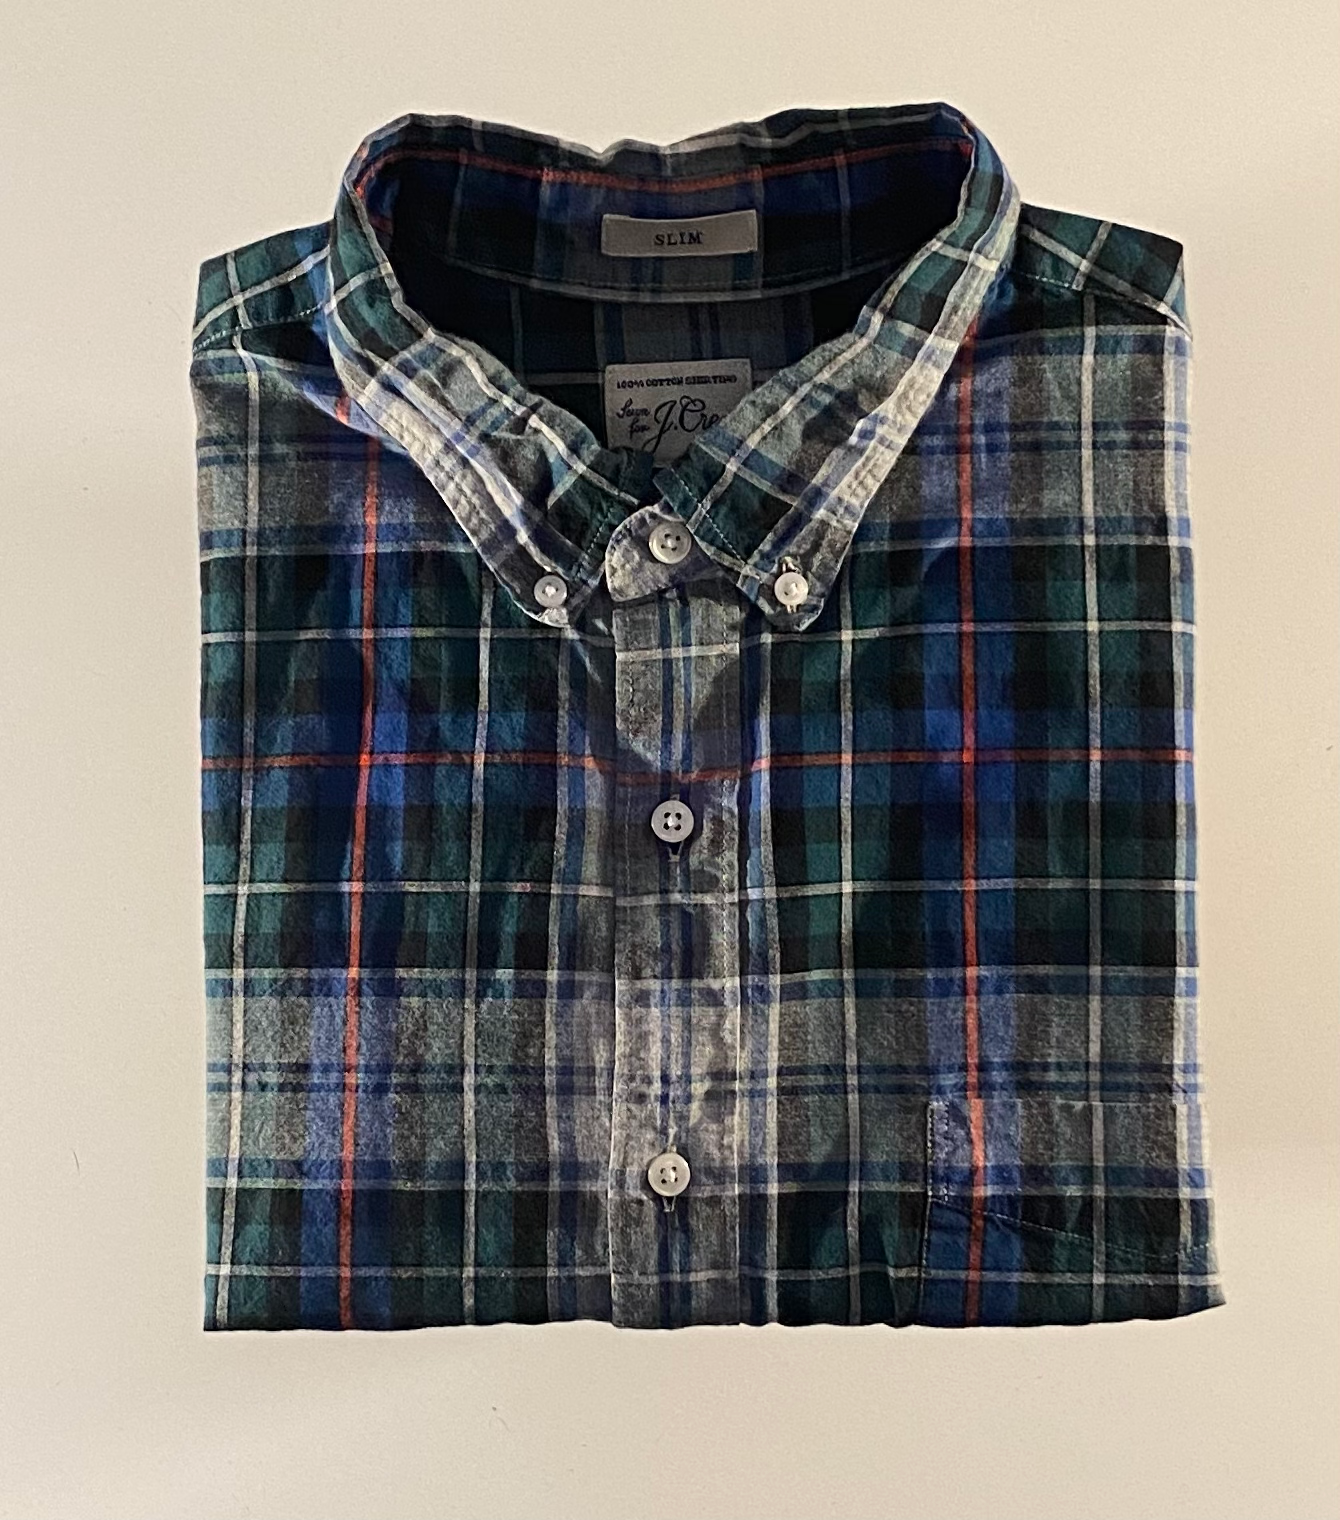
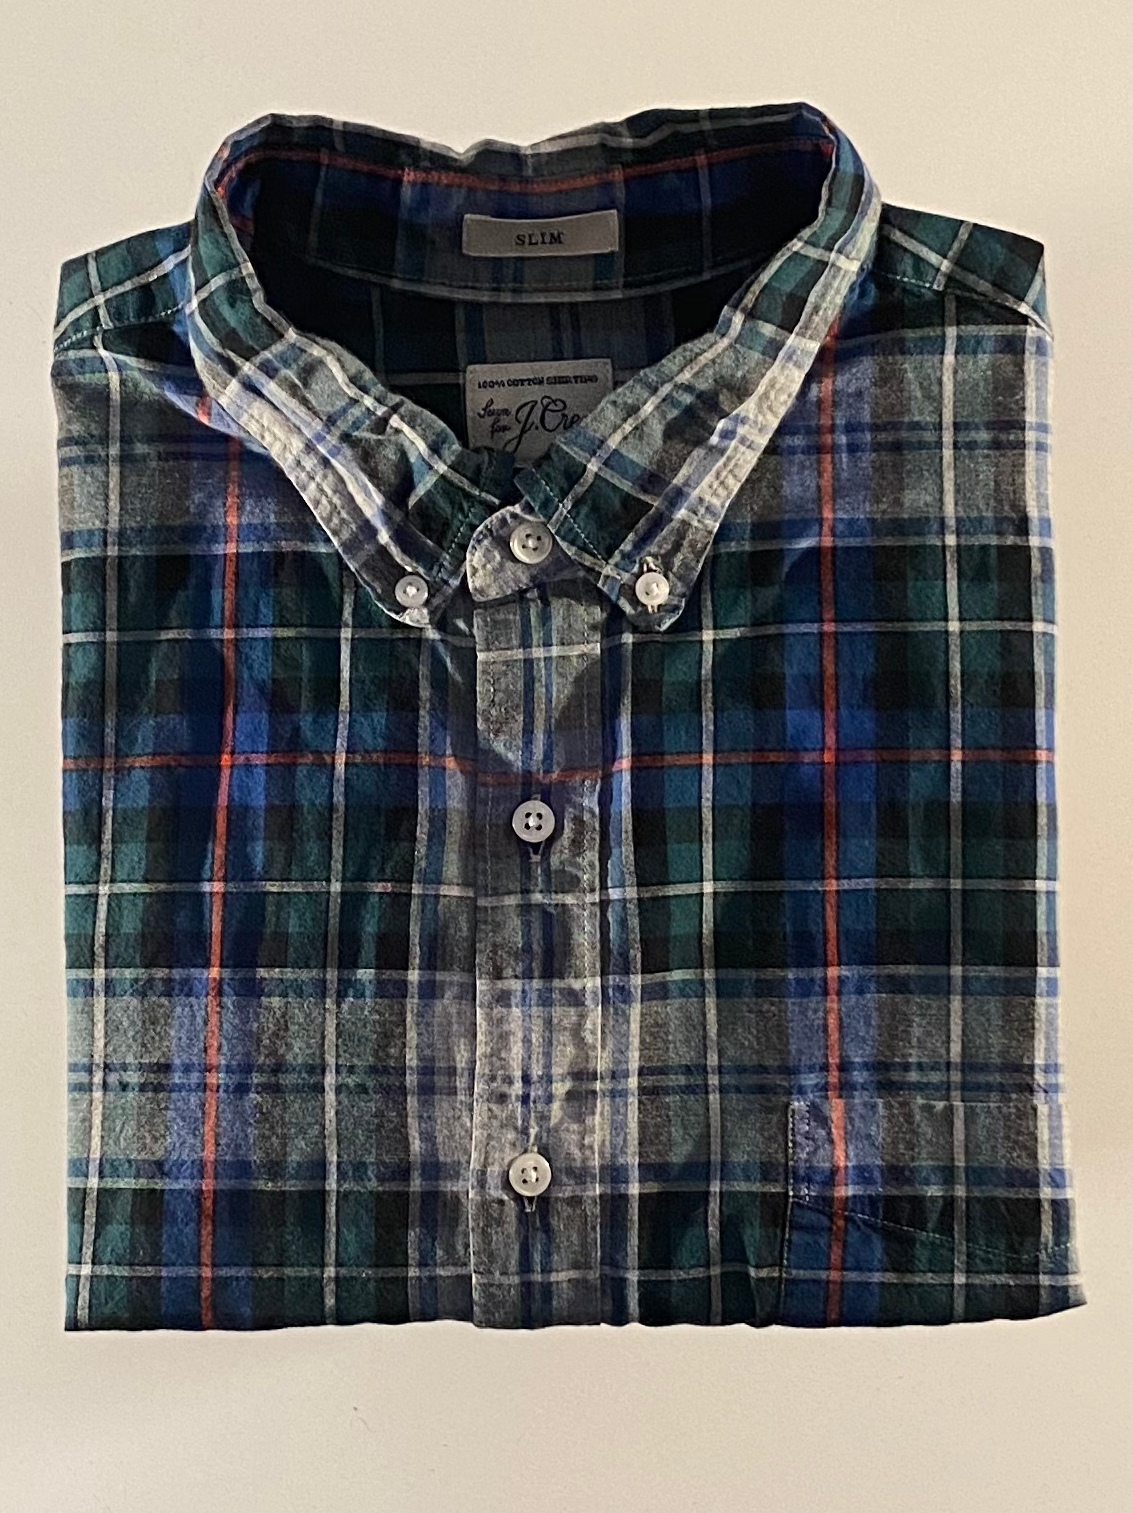
fixed some picture sizing

diff --git a/server/config/seeds.js b/server/config/seeds.js
@@ -205,7 +205,7 @@ db.once('open', async () => {
       category: categories[3]._id,
       description:
         'Black blazer',
-      image: 'https://bonobos-prod-s3.imgix.net/products/227706/original/BLAZER_CASUAL-BLAZER_BBZ00351SBK394_40_outfitter.jpg?1645170744=&auto=format&fit=clip&cs=srgb&w=414&q=75',
+      image: './images/Tops/Blazer.jpg',
       price: 50.00,
       size: 'large',
       quantity: 5
@@ -325,7 +325,7 @@ db.once('open', async () => {
       category: categories[6]._id,
       description:
         'hankerchief',
-      image: 'https://image.menswearhouse.com/is/image/TMW/MW40_88PD_01_PRONTO_UOMO_MARINE_SET?$40MainPDP$',
+      image: './images/Accessories/Hankerchief.png',
       price: 5.00,
       size: 'accessory',
       quantity: 10
@@ -365,7 +365,7 @@ db.once('open', async () => {
       category: categories[7]._id,
       description:
         'Measurement Kit Mens',
-      image: 'https://m.media-amazon.com/images/I/61vysAVtFBL._AC_SL1406_.jpg',
+      image: './images/Accessories/MeasurementKit.png',
       price: 5.00,
       size: 'accessory',
       quantity: 5
